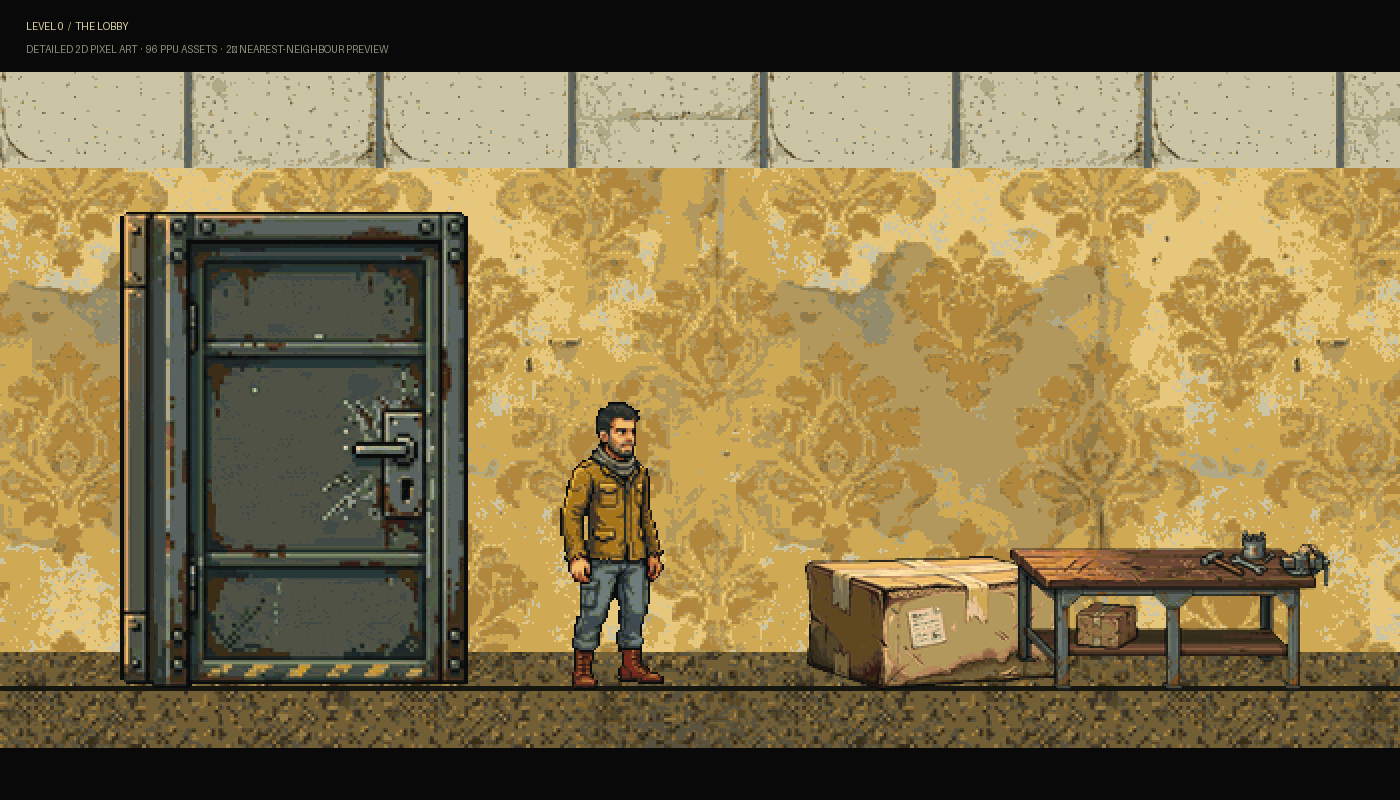
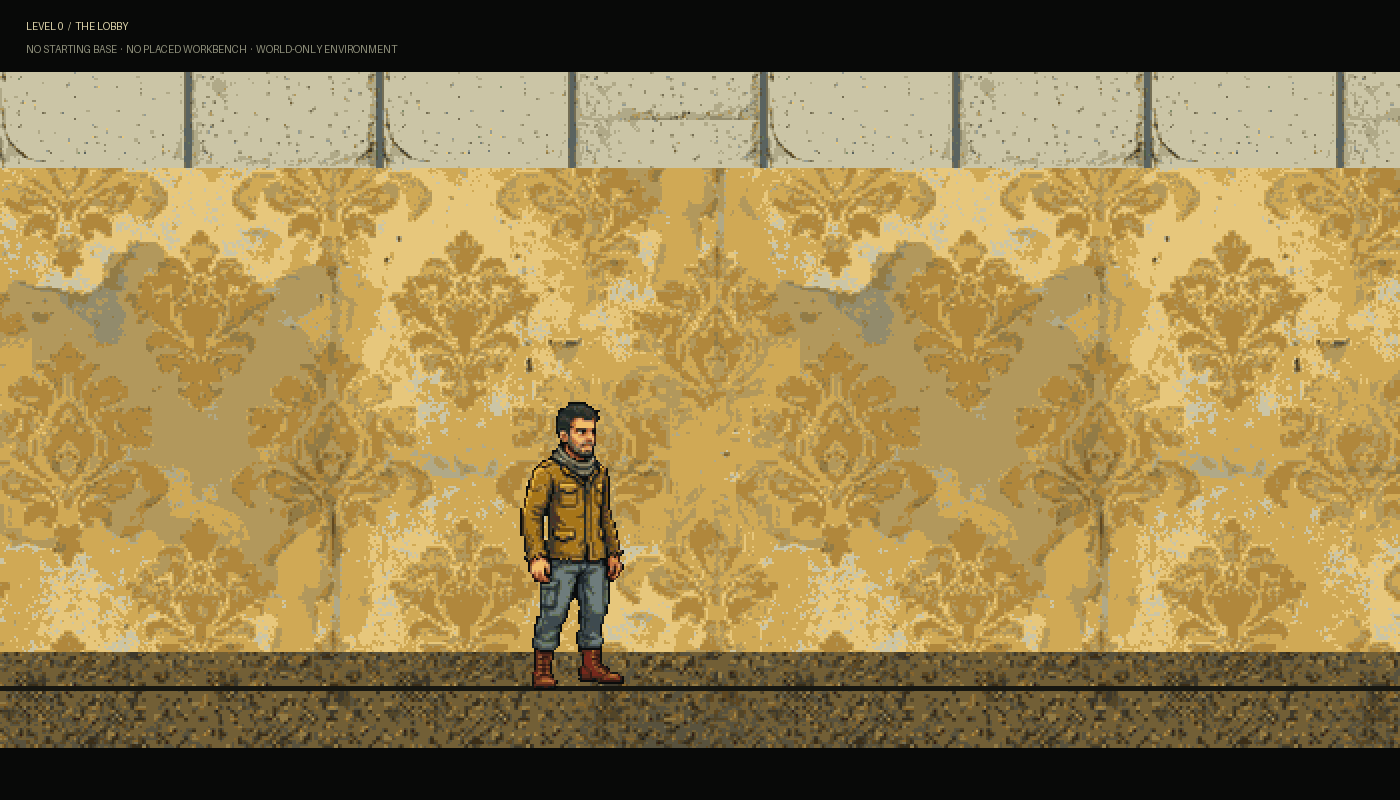
Remove prebuilt stations and document Rust building loop

diff --git a/UnityProject/Assets/Scripts/GameBootstrap.cs b/UnityProject/Assets/Scripts/GameBootstrap.cs
@@ -19,7 +19,7 @@ namespace Subsistence
             WorldBuilder2D.Build(world);
             if(cam!=null)ParallaxSystem2D.Build(world,cam);
             WorldLighting2D.Build(world);
-            CreatePlayer();CreateContainers();CreateWorkbenches();CreateWatchers();CreateTrader();CreateElevators();
+            CreatePlayer();CreateSupplyCaches();CreateWatchers();CreateTrader();CreateElevators();
             RendererLibrary2D.PrepareRenderers(world);
             gameObject.AddComponent<RunState>();gameObject.AddComponent<AudioDirector>();gameObject.AddComponent<GameHUD>();
         }
@@ -44,26 +44,20 @@ namespace Subsistence
             go.AddComponent<PixelFrameAnimator>();go.AddComponent<CharacterVisual2D>();go.AddComponent<InventorySystem>();go.AddComponent<PlayerController>();
         }
 
-        void CreateContainers()
+        // World loot only: these abandoned caches are not player storage. The
+        // run deliberately starts without a player base or a placed workbench.
+        void CreateSupplyCaches()
         {
-            MakeContainer(-9f,1,"LEVEL 0 · ПОВРЕЖДЁННАЯ КОРОБКА");
-            MakeContainer(18f,1,"LEVEL 0 · ПОТЕРЯННАЯ ПОСЫЛКА");
-            MakeContainer(62f,2,"LEVEL 0 · ЗАКЛЕЕННАЯ КОРОБКА С ПРИПАСАМИ");
+            MakeSupplyCache(-9f,1,"LEVEL 0 · ЗАБРОШЕННЫЙ ЯЩИК С ПРИПАСАМИ");
+            MakeSupplyCache(18f,1,"LEVEL 0 · ПОТЕРЯННАЯ ПОСЫЛКА");
+            MakeSupplyCache(62f,2,"LEVEL 0 · ЗАПЕЧАТАННЫЙ ЛУТ-КЕЙС");
         }
-        void MakeContainer(float x,int tier,string name)
+        void MakeSupplyCache(float x,int tier,string name)
         {
             var go=new GameObject(name+" · TIER "+tier);go.transform.SetParent(world,false);go.transform.position=new Vector3(x,0,0);
             var renderer=go.AddComponent<SpriteRenderer>();renderer.sprite=PixelArtFactory.Crate2D(tier);renderer.sortingOrder=7;
             var collider=go.AddComponent<BoxCollider2D>();collider.size=new Vector2(1.2f,1.0f);collider.offset=new Vector2(0,.5f);
             go.AddComponent<LootContainer>().Initialize(tier,name);
-        }
-        void CreateWorkbenches(){MakeBench(137f,1,"LEVEL 1 · FOUND WORKTABLE");MakeBench(191f,2,"LEVEL 1 · SERVICE BENCH");}
-        void MakeBench(float x,int tier,string name)
-        {
-            var go=new GameObject(name);go.transform.SetParent(world,false);go.transform.position=new Vector3(x,0,0);
-            var renderer=go.AddComponent<SpriteRenderer>();renderer.sprite=PixelArtFactory.Workbench2D(tier);renderer.sortingOrder=6;
-            var collider=go.AddComponent<BoxCollider2D>();collider.size=new Vector2(1.9f,.86f);collider.offset=new Vector2(0,.43f);collider.isTrigger=true;
-            go.AddComponent<WorkbenchStation>().Initialize(tier,name);
         }
         void CreateWatchers(){CreateWatcherAt(153f,"LEVEL 1 · WATCHER IN THE DARK");CreateWatcherAt(198f,"LEVEL 1 · WATCHER NEAR THE SERVICE BAY");}
         void CreateWatcherAt(float x,string name)

diff --git a/UnityProject/Tools/art2d/check_cs.py b/UnityProject/Tools/art2d/check_cs.py
@@ -134,6 +134,16 @@ def main() -> int:
         if name not in tile_names:
             fail(f"tile texture missing: Art/Tiles/{name}.png")
 
+    # Rust-style run start: only abandoned loot caches may be seeded by the
+    # bootstrap; player workbenches/base storage must be crafted and placed.
+    bootstrap_path = SCRIPTS / "GameBootstrap.cs"
+    if bootstrap_path.exists():
+        bootstrap = bootstrap_path.read_text(encoding="utf-8")
+        if "CreateWorkbenches(" in bootstrap or "MakeBench(" in bootstrap or "AddComponent<WorkbenchStation>" in bootstrap:
+            fail("GameBootstrap must not spawn a pre-placed workbench")
+        if "CreateHomeStorage(" in bootstrap or "AddComponent<HomeStorage" in bootstrap:
+            fail("GameBootstrap must not spawn player home storage")
+
     icon_body = extract_body(factory, "public static string IconName")
     icon_names = set(re.findall(r'return\s+"([a-z0-9_]+)"\s*;', icon_body))
     inv_path = SCRIPTS / "InventorySystem.cs"

diff --git a/UnityProject/Assets/Scripts/WorldBuilder2D.cs b/UnityProject/Assets/Scripts/WorldBuilder2D.cs
@@ -3,9 +3,9 @@ using UnityEngine;
 namespace Subsistence
 {
     /// <summary>
-    /// Builds the yellow, non-linear-feeling Level 0 lobby and its industrial
-    /// Level 1 destination in strict 2D. Pixel-art tiles span each whole level
-    /// so their repeats stay continuous across the dressing sections.
+    /// Builds only the Backrooms environment in strict 2D. It never creates a
+    /// player base, home storage or workbench; those belong to player building.
+    /// Pixel-art tiles span each level so their repeats stay continuous.
     /// </summary>
     public static class WorldBuilder2D
     {

diff --git a/UnityProject/RUST_BUILDING_REFERENCE.md b/UnityProject/RUST_BUILDING_REFERENCE.md
@@ -1,0 +1,30 @@
+# Rust-style construction reference
+
+Справка по строительной петле Rust для будущей адаптации к боковой 2D-игре. Это дизайн-ориентир, а не утверждение, что эта механика уже реализована в SUBSISTENCE.
+
+## Что важно в Rust
+
+1. **Building Plan** — отдельный инструмент для выбора и установки строительных частей. В официальной вики указаны стоимость крафта 20 дерева и отсутствие требования к верстаку.
+2. **Постройка появляется поэтапно.** Игрок сначала размечает фундамент/стену/проём/пол/крышу; затем улучшает секции материалом. Временная слабая стадия позволяет сначала собрать планировку.
+3. **Hammer** — отдельный инструмент для улучшения и ремонта уже поставленных частей, а также взаимодействия с развёрнутыми объектами.
+4. **Tool Cupboard (TC)** задаёт строительные права и обслуживание базы. Поставивший TC авторизуется автоматически; связанные фундаменты формируют зону привилегии. Запас в TC оплачивает upkeep материалами конструкции; при нехватке материалов строение начинает разрушаться. Раздельные здания требуют собственного связанного TC.
+5. **Опора и стабильность** ограничивают висящие/неподдержанные конструкции; размещение не должно быть свободным рисованием без геометрических правил.
+
+## Перенос в SUBSISTENCE
+
+- Сохраняем обязательный **боковой 2D-вид**. Строительные части должны ставиться по читаемой сетке и иметь понятные точки привязки: фундамент, стена, дверной проём и перекрытие/крыша.
+- **Стартовая база не генерируется.** Нет готового дома, поставленного верстака или домашнего ящика. Игрок добывает материалы и сам размещает постройку.
+- План размещает временную базовую версию детали; молоток улучшает/чинит её; проверка опоры запрещает невозможные пролёты.
+- Хранилище и верстак — это предметы/объекты, которые игрок должен будет изготовить и поставить, а не стартовый декор уровня. Три уже имеющихся ящика на Level 0 остаются отдельными мировыми лут-кейсами, не хранилищем базы.
+- Оригинальные числовые цены, HP и таймеры Rust не копируем автоматически: баланс нужно отдельно настроить под одиночную 2D-игру. Сетевая авторизация в проекте не нужна; если сохраняем роль TC, она отвечает за право строить и обслуживание собственной базы.
+
+## Текущее состояние
+
+На текущем этапе из старта удалено автоматическое появление двух `WorkbenchStation`. В `WorldBuilder2D` строится только окружение, а не база игрока. Сам цикл «план → размещение → молоток/улучшение → TC/upkeep» ещё предстоит реализовать.
+
+## Источники
+
+- [Rust Wiki: Building Plan](https://wiki.facepunch.com/rust/item/building.planner)
+- [Rust Wiki: Hammer](https://wiki.facepunch.com/rust/item/hammer)
+- [Rust Wiki: Tool Cupboard, decay and building privilege](https://wiki.facepunch.com/rust/the_tool_cupboard)
+- [Rust community guide: building grades and stability overview](https://xgamingserver.com/blog/rust-base-building-guide/)

diff --git a/UnityProject/README.md b/UnityProject/README.md
@@ -9,7 +9,7 @@
 3. Дождись импорта пакетов из `Packages/manifest.json` (в том числе URP 14.0.11). При первом открытии Editor-скрипты создают сцену `Assets/Scenes/FieldTest.unity`, URP-ассеты в `Assets/Settings/` и добавляют сцену в Build Settings.
 4. Нажми **Play ▶** и открой вкладку **Game**. В главном меню выбери **«НАЧАТЬ ИГРУ» → «ВЫБОР УРОВНЯ» → «НАЧАТЬ LEVEL 0»**. Это локальная одиночная игра; онлайн-серверов и сетевых пассажиров нет.
 
-Сцена, персонаж, комнаты и контейнеры собираются игровым кодом при запуске. Перетаскивать объекты на сцену вручную не нужно.
+Окружение, персонаж и игровые точки интереса собираются кодом при запуске. В стартовом мире нет базы игрока, поставленного верстака или домашнего хранилища. Три ящика Level 0 — заброшенные лут-кейсы для вылазки, не сундуки базы. Саму Rust-подобную стройку нужно добавлять как отдельную механику; генератор мира не должен создавать постройки игрока.
 
 ## Игровой цикл
 
@@ -59,5 +59,6 @@
 - `Tools/art2d/` — конвертация, палитра, процедурные временные материалы, упаковка атласов и статическая проверка C#.
 - Бриф на 50 вопросов расположен в корне репозитория: [`../index.html`](../index.html); старая версия на 20 вопросов сохранена в [`../brief-20/`](../brief-20/).
 - `RESEARCH.md` — технические решения и ссылки на документацию Unity.
+- `RUST_BUILDING_REFERENCE.md` — изученная строительная петля Rust и её адаптация к боковой 2D-игре; текущий код стройки пока не реализован.
 
 **Ограничение проверки:** Unity Editor недоступен в среде разработки. Импорт проекта, компиляция скриптов, Play Mode и сборка `.exe` здесь не запускались; их необходимо проверить в Unity 2022.3.62f2.

diff --git a/UnityProject/CHANGELOG.md b/UnityProject/CHANGELOG.md
@@ -4,7 +4,7 @@
 
 - Добавлены исходные пиксельные материалы для ковра и потолка Level 0, всех трёх поверхностей Level 1 и Manila Room; все семь игровых тайлов теперь собираются из `ArtSource/raw/`.
 - В атлас объектов интегрированы crate tier 1, workbench tier 1 и новая дверь. Для Level 1 wall отключён dithering и добавлен 7×7 median cleanup, чтобы уменьшить визуальный шум.
-- Обновлены side-view превью Level 0/1 в `docs/preview/`; 11 объектов и все 26 иконок пока остаются на fallback.
+- Обновлены side-view превью Level 0/1 в `docs/preview/`; в них и генераторе нет базы, верстака и домашнего ящика. Три фиксированных коробки переименованы в мировые лут-кейсы, 11 объектов и все 26 иконок пока остаются на fallback.
 - Добавлен корневой локальный сайт-бриф на 50 вопросов; он сохраняет черновик в браузере и предлагает ручное копирование/экспорт без отправки ответов.
 - Пайплайн `Tools/art2d` переведён на репозиторные исходники в `ArtSource/raw/`; удалена зависимость от абсолютного `/home/user/art-src`.
 - В обработчике PNG сохранён исходный alpha-канал: прозрачные пиксельные спрайты теперь не превращаются в чёрные прямоугольники при пересборке.

diff --git a/UnityProject/ART_PIPELINE.md b/UnityProject/ART_PIPELINE.md
@@ -59,7 +59,7 @@ When a prop or material source is not ready, the build uses a palette-locked pro
 
 - Character art is packed from source PNGs; the five survivor motion poses, two Watcher poses and Trader are present.
 - All seven repeating environment materials now have source pixel art: three Level 0 surfaces, three Level 1 surfaces and the Manila Room wallpaper. Level 1 wall processing disables dithering and applies a 7×7 median cleanup to keep its broad panel seams and stains readable without competing with characters.
-- Three of 14 props are newly sourced and integrated: crate tier 1, workbench tier 1 and the door. The remaining 11 props use same-palette fallbacks; replacement PNGs can be added under `ArtSource/raw/`. The rejected wide elevator sketch is not used; closed/open elevator art still needs portrait-shaped sprites.
+- Three of 14 props are in the atlas: crate tier 1, workbench tier 1 and the door. The workbench sprite is only an available asset; no station is spawned at run start. The level starts without a player base or home storage. Three fixed Level 0 crates are world scavenging caches, not a player's storage box. The remaining 11 props use same-palette fallbacks; the rejected wide elevator sketch is not used, so closed/open elevator art still needs portrait-shaped sprites.
 - Inventory icons currently use the in-game procedural pictogram fallback (0/26 painted). The source folder is ready for 64×64 item icons.
 - Gear-specific survivor variants are not yet authored; the game safely uses the base character until those frames are added.
 - Source-art scene mockups for Level 0 and Level 1 are saved under `docs/preview/`.

diff --git a/README.md b/README.md
@@ -24,7 +24,7 @@ Open `UnityProject/` in Unity Hub using Editor **2022.3.62f2**. The game uses UR
 - Art source naming and rebuild instructions: [`UnityProject/ART_PIPELINE.md`](UnityProject/ART_PIPELINE.md).
 - Side-view mockups for both levels are in [`docs/preview/`](docs/preview/).
 
-The seven environment materials now use source pixel art. Three of 14 props are newly painted and integrated (crate tier 1, workbench tier 1 and the door); the other 11 use palette-matched fallbacks. Inventory icons still use the in-game pictogram fallback. The pipeline lets remaining art be added without changing gameplay code.
+The seven environment materials now use source pixel art. Three of 14 props are in the atlas (crate tier 1, workbench tier 1 and the door); the workbench art is available for a future player-placed station, not spawned by the level. The opening world has no player home, workbench or home storage; its fixed crates are abandoned scavenging caches only. The other 11 prop sprites and all inventory icons still use their fallbacks.
 
 ## Rebuild art and run static checks
 
